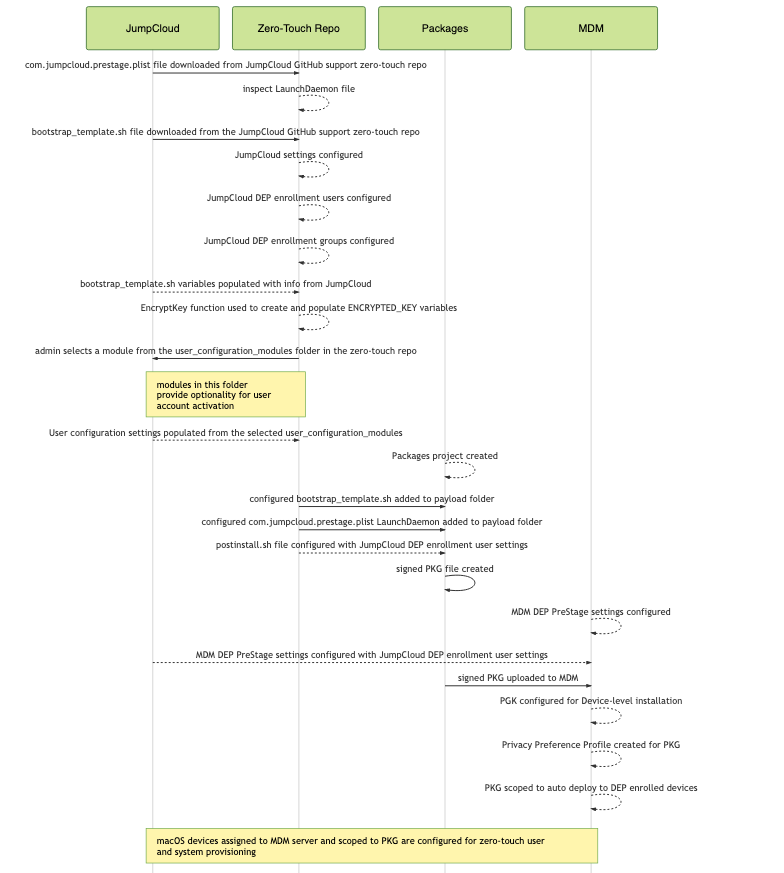
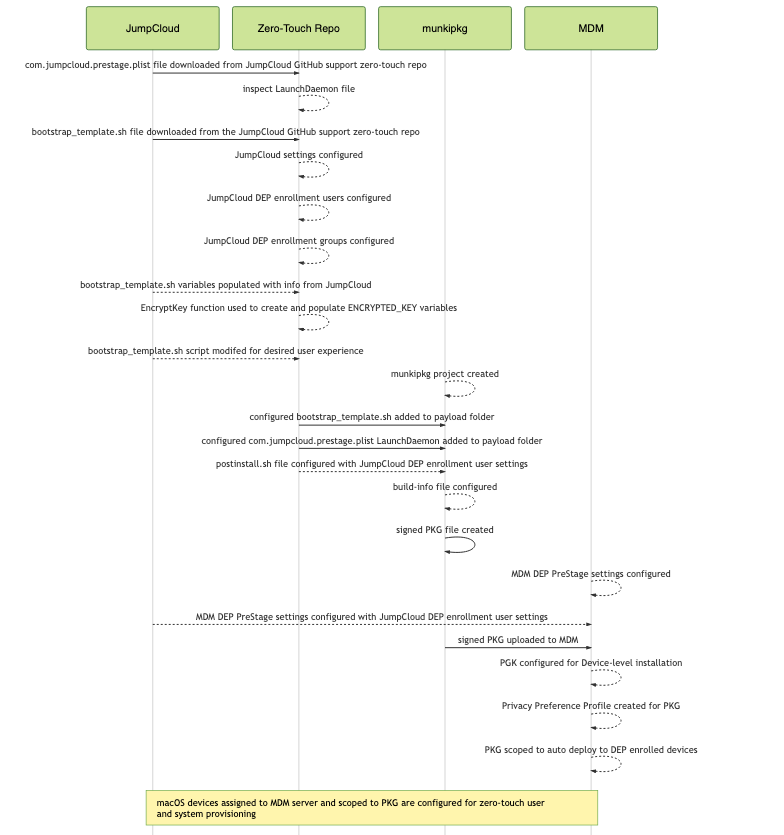
readme changes and updates to diagrams

diff --git a/zero-touch/prestage_user_enrollment/README.md b/zero-touch/prestage_user_enrollment/README.md
@@ -25,16 +25,15 @@ The JumpCloud Service Account is required to manage users on FileVault enabled m
   - [Step 3 - Configuring the JumpCloud Tenant For DEP Zero-Touch](#step-3---configuring-the-jumpcloud-tenant-for-dep-zero-touch)
   - [Step 4 - Populating the Bootstrap template script variables](#step-4---populating-the-bootstrap-template-script-variables)
     - [Variable Definitions](#variable-definitions)
-  - [Step 5 - Selecting a User Configuration Module](#step-5---selecting-a-user-configuration-module)
-    - [Pending User Configuration Modules](#pending-user-configuration-modules)
-    - [Pending or Active User Configuration Modules](#pending-or-active-user-configuration-modules)
-  - [Step 6 - Populating the Bootstrap template script with a User Configuration Module](#step-6---populating-the-bootstrap-template-script-with-a-user-configuration-module)
-  - [Step 7 - Create the LaunchDaemon](#step-7---create-the-launchdaemon)
-  - [Step 8 - Create the postinstall script](#step-8---create-the-postinstall-script)
-  - [Step 9 - Creaking a PKG using WhiteBox Packages](#step-9---creaking-a-pkg-using-whitebox-packages)
-  - [Step 10 - Configuring MDM PreStage Settings](#step-10---configuring-mdm-prestage-settings)
-  - [Step 11 - Configuring the PKG for MDM deployment](#step-11---configuring-the-pkg-for-mdm-deployment)
-  - [Step 12 - Creating a Privacy Preference Policy](#step-12---creating-a-privacy-preference-policy)
+  - [Step 5 - Selecting a User Experience](#step-5---selecting-a-user-experience)
+    - [Example user experience with secret](#example-user-experience-with-secret)
+    - [Example user experience without secret](#example-user-experience-without-secret)
+  - [Step 6 - Create the LaunchDaemon](#step-6---create-the-launchdaemon)
+  - [Step 7 - Create the postinstall script](#step-7---create-the-postinstall-script)
+  - [Step 8 - Creaking a PKG using WhiteBox Packages](#step-8---creaking-a-pkg-using-whitebox-packages)
+  - [Step 9 - Configuring MDM PreStage Settings](#step-9---configuring-mdm-prestage-settings)
+  - [Step 10 - Configuring the PKG for MDM deployment](#step-10---configuring-the-pkg-for-mdm-deployment)
+  - [Step 11 - Creating a Privacy Preference Policy](#step-11---creating-a-privacy-preference-policy)
 - [Testing the workflow](#testing-the-workflow)
 
 ## Prerequisites
@@ -82,8 +81,6 @@ The JumpCloud Bootstrap configuration script configured in this guide must be pa
 **jumpcloud_bootstrap_template.sh:** The template .sh file that contains the logic for the zero-touch workflow. This file has variables that must be populated with org specific settings and has fields to populate with a user configuration module. This .sh file is converted to a PKG and is the payload which is run which drives the zero-touch workflow.
 
 **LaunchDaemon:** A LaunchDaemon will be created to drive the completion of the jumpcloud_bootstrap_template.sh script. LaunchDaemons are processes which run as root and are invoked at system startup.
-
-**user_configuration_modules:** The folder that contains the user configuration modules. The user configuration modules provide optionality for how PreStaged users locate and activate their JumpCloud accounts during DEP onboarding.
 
 **Enrollment User:** The admin account pushed down via the MDM. Logging into this account is the first step in kicking off the zero-touch workflow. This account gets taken over and then inactivated on the system in the zero-touch workflow. Logging in with an Enrollment User is required to install the JumpCloud service account which manages SecureTokens and FileVault enabled users.
 
@@ -445,87 +442,87 @@ NTP_SERVER="time.apple.com"
 ### Daemon Variable
 daemon="com.jumpcloud.prestage.plist"
 
+### Comment or uncomment one of the options below ###
+### The uncommented variable will be used for user authentication ###
+### Company Email (default)
+self_ID="CE"
+### lastname
+# self_ID="LN"
+### personal email
+# self_ID="PE"
+
+### Include secret id (employee ID) ###
+### Default setting is true
+self_secret=true
+
+### Password Settings ###
+### Should active users be forced to update their passwords? ###
+### Pending users are required to choose a password during enrollment ###
+### Default setting is false ###
+self_passwd=false
+
 #~~~~~~~~~~~~~~~~~~~~~~~~~~~~~~~~~~~~~~~~~~~~~~~~~~~~~~~~~~~~~~~~~~~~~~~~~~~~~~~
 # END General Settings                                                         ~
 #~~~~~~~~~~~~~~~~~~~~~~~~~~~~~~~~~~~~~~~~~~~~~~~~~~~~~~~~~~~~~~~~~~~~~~~~~~~~~~~
 ```
 
-### Step 5 - Selecting a User Configuration Module
+### Step 5 - Selecting a User Experience
 
-Within the  `prestage_user_enrollment` folder in the zero-touch support GitHub repo there is a folder named `user_configuration_modules` in this folder live the user configuration modules that give optionality for how users will activate their JumpCloud accounts through the DEPNotify registration window.
+As of release 3.0 the existing user_configuration_modules are built into the jumpcloud_bootstrap_template.sh script. Instead of copying and pasting values, an admin can configure the user experience by setting the three variables at the end of the "General Settings" code block.
 
-#### Pending User Configuration Modules
+The three variables below are used to drive the user experience to their configured values.
 
-The below workflows can be used to activate **Pending** JumpCloud users. Pending users are users who have not set a password.
+```bash
+self_ID="CE"
+self_secret=true
+self_passwd=false
+```
 
-![pending_user_company_email](./images/pending_company_email.png?raw=true)
+The `self_ID` variable may be set to:
 
-- [pending_user_company_email](./user_configuration_modules/pending_user_company_email.sh)
+`self_ID="CE"` to prompt users to enter their company email (default setting)
 
-The JumpCloud user "email" field is used to lookup and locate a user by company email.
+`self_ID="PE"` to prompt users to enter their personal email
 
-![pending_user_personal_email](./images/personal_email.png?raw=true)
+`self_ID="LN"` to prompt users to enter their last name
 
-- [pending_user_personal_email](./user_configuration_modules/pending_user_personal_email.sh)
+The `self_secret` variable may be set to either `true` or `false`. If this variable is set to true, users will be prompted to enter a secret id during the enrollment workflow. If set to false, users will **not** be prompted to enter a secret id.
 
-There is no defined field for "personal email" in JumpCloud so the "description" field is used to lookup and locate a user by personal email. The "Description" field for users must be populated with a value for this workflow to succeed.
+The `self_secret` variable dictates the user experience for active JumpCloud users. if set to `true`, existing users with JumpCloud passwords will be prompted to create a new password during the enrollment workflow. The default setting will not prompt existing JumpCloud users to enter a new password. Pending users without passwords in JumpCloud are always prompted to enter a password during the enrollment process.
 
-#### Pending or Active User Configuration Modules
+By default the values are set to accept a user's company email address, secret id and to not set a password for existing active users. Pending users will always be prompted to enter a password for their new account. Configuring the variables above give optionality for how users will activate their JumpCloud accounts through the DEPNotify registration window.
 
-The below workflows can be used to activate **Pending** or **Active** JumpCloud users. Pending users are users who have not set a password. Active users are users who have already set a password. A "secret" is required for these workflows. This "secret" is a value that is populated for the JumpCloud "employeeIdentifier" field of the user by the admin and provided to employees prior to zero-touch DEP enrollment. The secret secures the enrollment and provides an additional factor of verification to activate or update the JumpCloud account.
+#### Example user experience with secret
+
+The default user experience window is displayed below. In the image below a user is prompted for their company email and a secret word. The input fields "Company Email" is used to query the "EMAIL" attribute for existing JumpCloud users. The input field "Secret" is used to query the "employeeIdentifier" attribute. The "employeeIdentifier" field for users must be populated with a value for this workflow to succeed. The "employeeIdentifier" attribute is required to be unique per user. This user experience can be used to activate **Pending** or **Active** JumpCloud users.
+
+Pending users are users who have not set a password. Active users are users who have already set a password. A "secret" is required for these workflows. This "secret" is a value that is populated for the JumpCloud "employeeIdentifier" field of the user by the admin and provided to employees prior to zero-touch DEP enrollment. The secret secures the enrollment and provides an additional factor of verification to activate or update the JumpCloud account.
+
+The default configuration will prompt pending users to enter a new password, active users are not required to set a password.
 
 ![pending_or_active_user_company_email_and_secret](./images/company_secret.png?raw=true)
 
-- [pending_or_active_user_company_email_and_secret](./user_configuration_modules/pending_or_active_user_company_email_and_secret.sh)
-
-The input fields "Company Email" is used to query the "EMAIL" attribute for existing JumpCloud users. The input field "Secret" is used to query the "employeeIdentifier" attribute. The "employeeIdentifier" field for users must be populated with a value for this workflow to succeed. The "employeeIdentifier" attribute is required to be unique per user.
+The user experience can be modified to accept a personal email address. The input fields "Personal Email" is used to query the "Description" attribute for existing JumpCloud users. The input field "Secret" is used to query the "employeeIdentifier" attribute. The "employeeIdentifier" field for users must be populated with a value for this workflow to succeed. The "employeeIdentifier" attribute is required to be unique per user.
 
 ![pending_or_active_user_personal_email_and_secret](./images/personal_email_secret.png?raw=true)
 
-- [pending_or_active_user_personal_email_and_secret](./user_configuration_modules/pending_or_active_user_personal_email_and_secret.sh)
-
-The input fields "Personal Email" is used to query the "Description" attribute for existing JumpCloud users. The input field "Secret" is used to query the "employeeIdentifier" attribute. The "employeeIdentifier" field for users must be populated with a value for this workflow to succeed. The "employeeIdentifier" attribute is required to be unique per user.
+Alternatively the input fields "Last Name" can used to query the "lastname" attribute for existing JumpCloud users. The input field "Secret" is used to query the "employeeIdentifier" attribute. The "employeeIdentifier" field for users must be populated with a value for this workflow to succeed. The "employeeIdentifier" attribute is required to be unique per user.
 
 ![pending_or_active_user_last_name_and_secret](./images/lastname_secret.png?raw=true)
 
-- [pending_or_active_user_last_name_and_secret](./user_configuration_modules/pending_or_active_user_last_name_and_secret.sh)
+#### Example user experience without secret
 
+A self_ID variable set to "CE" and self_secret variable set to false should present the user with the following window during enrollment.
 
-The input fields "Last Name" is used to query the "lastname" attribute for existing JumpCloud users. The input field "Secret" is used to query the "employeeIdentifier" attribute. The "employeeIdentifier" field for users must be populated with a value for this workflow to succeed. The "employeeIdentifier" attribute is required to be unique per user.
+![pending_user_company_email](./images/pending_company_email.png?raw=true)
 
-### Step 6 - Populating the Bootstrap template script with a User Configuration Module
+A self_ID variable set to "PE" and self_secret variable set to false should present the user with the following window during enrollment.
 
-After selecting a User Configuration Module you will need to insert two code blocks from the module into the  `jumpcloud_bootstrap_template.sh` file.
+![pending_user_personal_email](./images/personal_email.png?raw=true)
 
-To find these locations search for the text: `INSERT-CONFIGURATION`
+There is no defined field for "personal email" in JumpCloud so the "description" field is used to lookup and locate a user by personal email. The "Description" field for users must be populated with a value for this workflow to succeed.
 
-Copy in the entire contents of the  **DEPNotify PLIST Settings** code block from the selected module to the `jumpcloud_bootstrap_template.sh` file where it reads `#<--INSERT-CONFIGURATION for "DEPNotify PLIST Settings" below this line---------`.
-
-```sh
-################################################################################
-# DEPNotify PLIST Settings - INSERT-CONFIGURATION                              #
-################################################################################
-#<--INSERT-CONFIGURATION for "DEPNotify PLIST Settings" below this line---------
-
-#~~~~~~~~~~~~~~~~~~~~~~~~~~~~~~~~~~~~~~~~~~~~~~~~~~~~~~~~~~~~~~~~~~~~~~~~~~~~~~~
-# END DEPNotify PLIST Settings                                                 ~
-#~~~~~~~~~~~~~~~~~~~~~~~~~~~~~~~~~~~~~~~~~~~~~~~~~~~~~~~~~~~~~~~~~~~~~~~~~~~~~~~
-```
-
-Copy in the entire contents of the  **User Configuration Settings** code block from the selected module to the `jumpcloud_bootstrap_template.sh` file where it reads `#<--INSERT-CONFIGURATION for "User Configuration Settings" below this line-------`.
-
-```sh
-################################################################################
-# User Configuration Settings - INSERT-CONFIGURATION                           #
-################################################################################
-#<--INSERT-CONFIGURATION for "User Configuration Settings" below this line-------
-
-#~~~~~~~~~~~~~~~~~~~~~~~~~~~~~~~~~~~~~~~~~~~~~~~~~~~~~~~~~~~~~~~~~~~~~~~~~~~~~~~
-# END User Configuration Settings                                              ~
-#~~~~~~~~~~~~~~~~~~~~~~~~~~~~~~~~~~~~~~~~~~~~~~~~~~~~~~~~~~~~~~~~~~~~~~~~~~~~~~~
-```
-
-### Step 7 - Create the LaunchDaemon
+### Step 6 - Create the LaunchDaemon
 
 In order to ensure the JumpCloud user account is configured during this process. A LaunchDaemon will control the execution of the jumpcloud_bootstrap_template.sh script. For additional information, [Apple's documentation archive](https://developer.apple.com/library/archive/documentation/MacOSX/Conceptual/BPSystemStartup/Chapters/Introduction.html) is a expansive resource for building and designing daemons. This workflow requires a daemon to run the jumpcloud_bootstrap_template.sh script on startup.
 
@@ -558,7 +555,7 @@ Optionally include reporting keys for additional debugging:
 <string>/var/tmp/com.jumpcloud.prestage.out</string>
 ```
 
-### Step 8 - Create the postinstall script
+### Step 7 - Create the postinstall script
 
 In the postinstall script add in the following payload. The LaunchDaemon must be moved to a system's /Library/LaunchDaemons/ directory in the postinstall script.
 
@@ -632,7 +629,7 @@ launchctl load -w "/Library/LaunchDaemons/${daemon}"
 
 The presences of the `JumpCloud-SecureToken-Creds.txt` file is require to install the JumpCloud agent with the JumpCloud Service Account. The JumpCloud Service Account is mandatory to manage Secure Tokens and Filevault enabled users. The `JumpCloud-SecureToken-Creds.txt` is deleted by the agent install process and removed from the system.
 
-### Step 9 - Creaking a PKG using [WhiteBox Packages](http://s.sudre.free.fr/Software/Packages/about.html)
+### Step 8 - Creaking a PKG using [WhiteBox Packages](http://s.sudre.free.fr/Software/Packages/about.html)
 
 The following steps are used to create and sign the deployment .pkg file. The files referenced above will be added to the package project.
 
@@ -672,7 +669,7 @@ Need packaging help? See: [WhiteBox Packages documentation](http://s.sudre.free.
 
 Need signing help? See [Package signing](https://developer.apple.com/developer-id/)
 
-### Step 10 - Configuring MDM PreStage Settings
+### Step 9 - Configuring MDM PreStage Settings
 
 - User Settings
 
@@ -686,7 +683,7 @@ Example:
 
 ![Simple Settings](./images/mdm_enrollment_user.png?raw=true)
 
-### Step 11 - Configuring the PKG for MDM deployment
+### Step 10 - Configuring the PKG for MDM deployment
 
 - Uploading PKG
 
@@ -704,7 +701,7 @@ Ensure the PKG is configured for "Device Level Installation". By setting the PKG
 
 Scope the PKG to auto deploy to the machines you wish to configure for zero-touch configuration.
 
-### Step 12 - Creating a Privacy Preference Policy
+### Step 11 - Creating a Privacy Preference Policy
 
 Create the below "Privacy Preference" profile. This will allow the osascript to run which prompts users to input a secure password. Or download the [JAMF profile](./tcc-bash.mobileconfig) if deploying over JAMF Pro.
 
